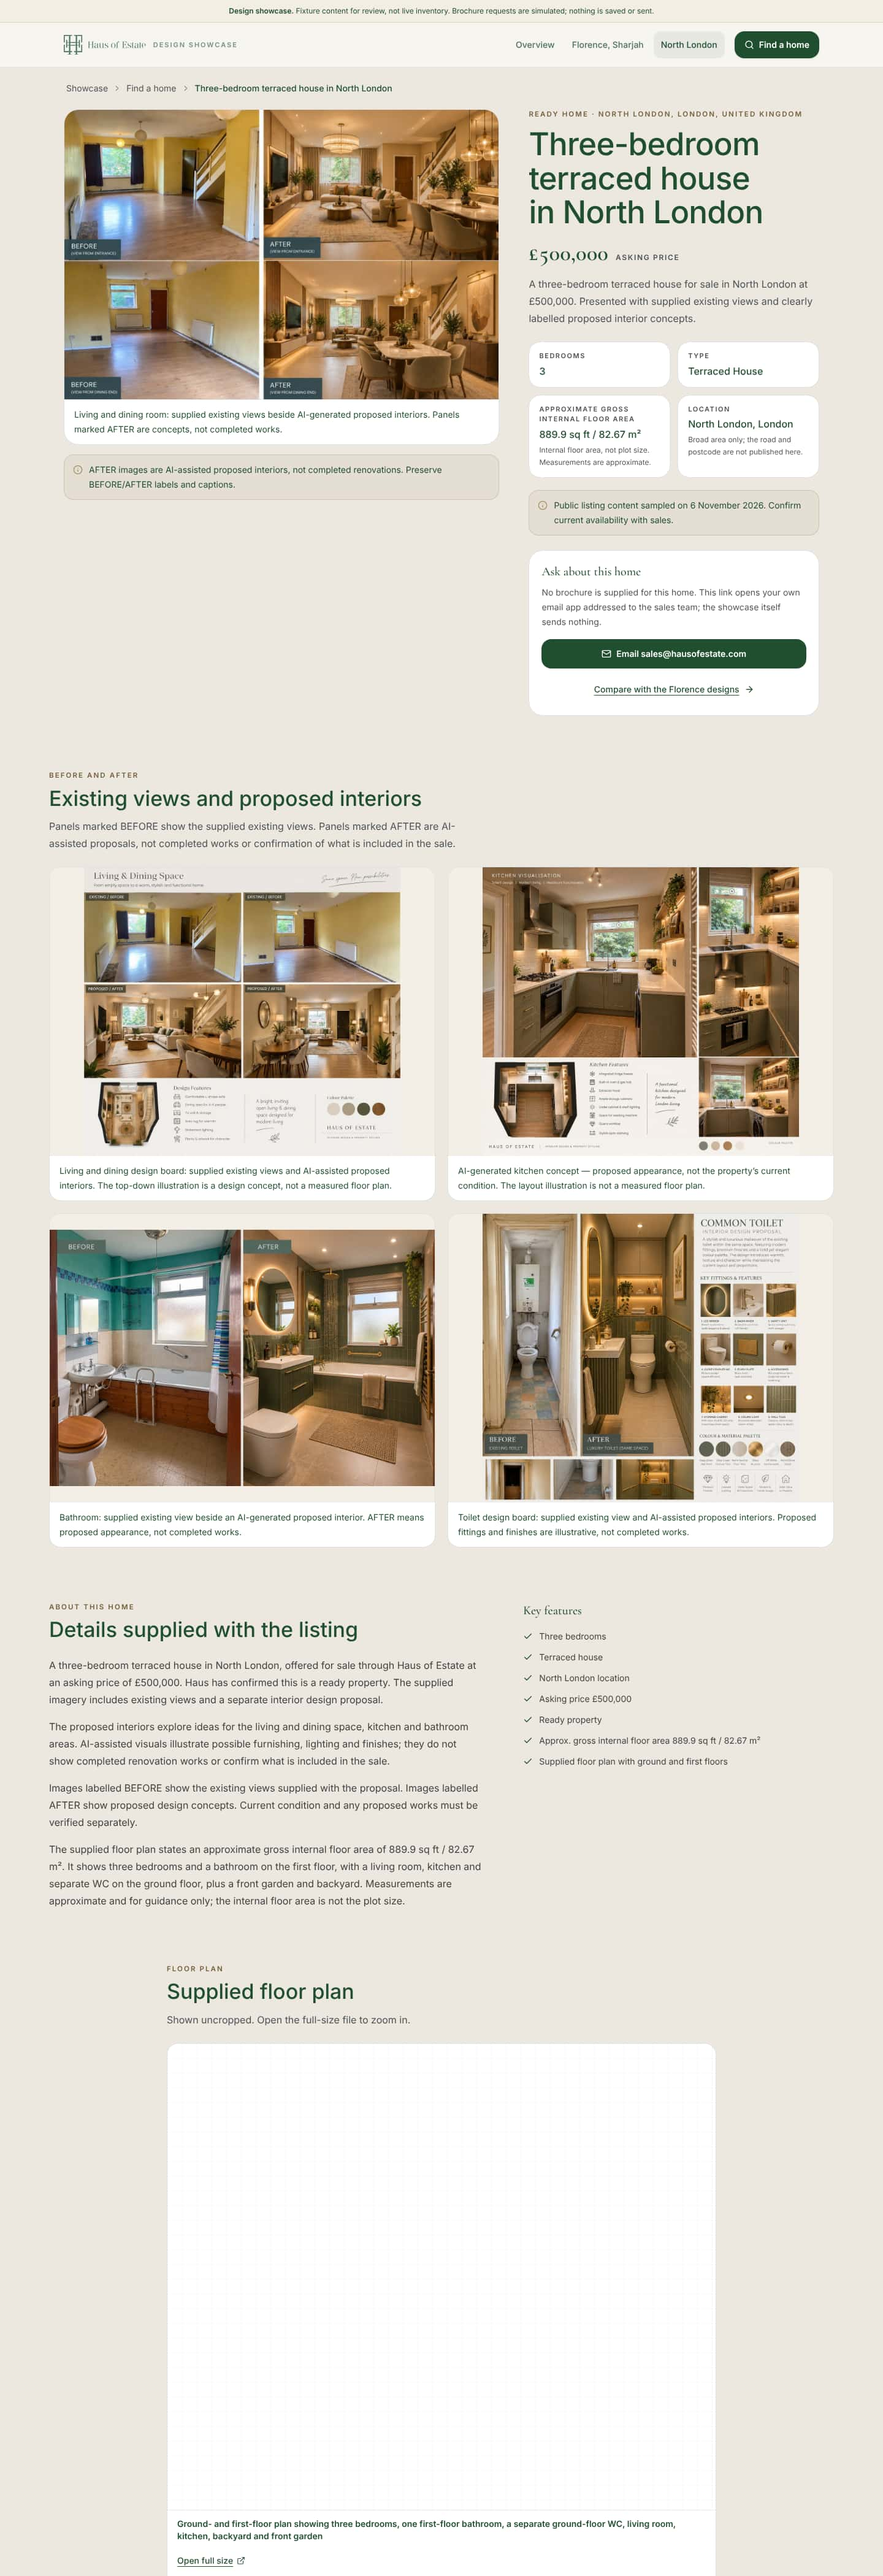
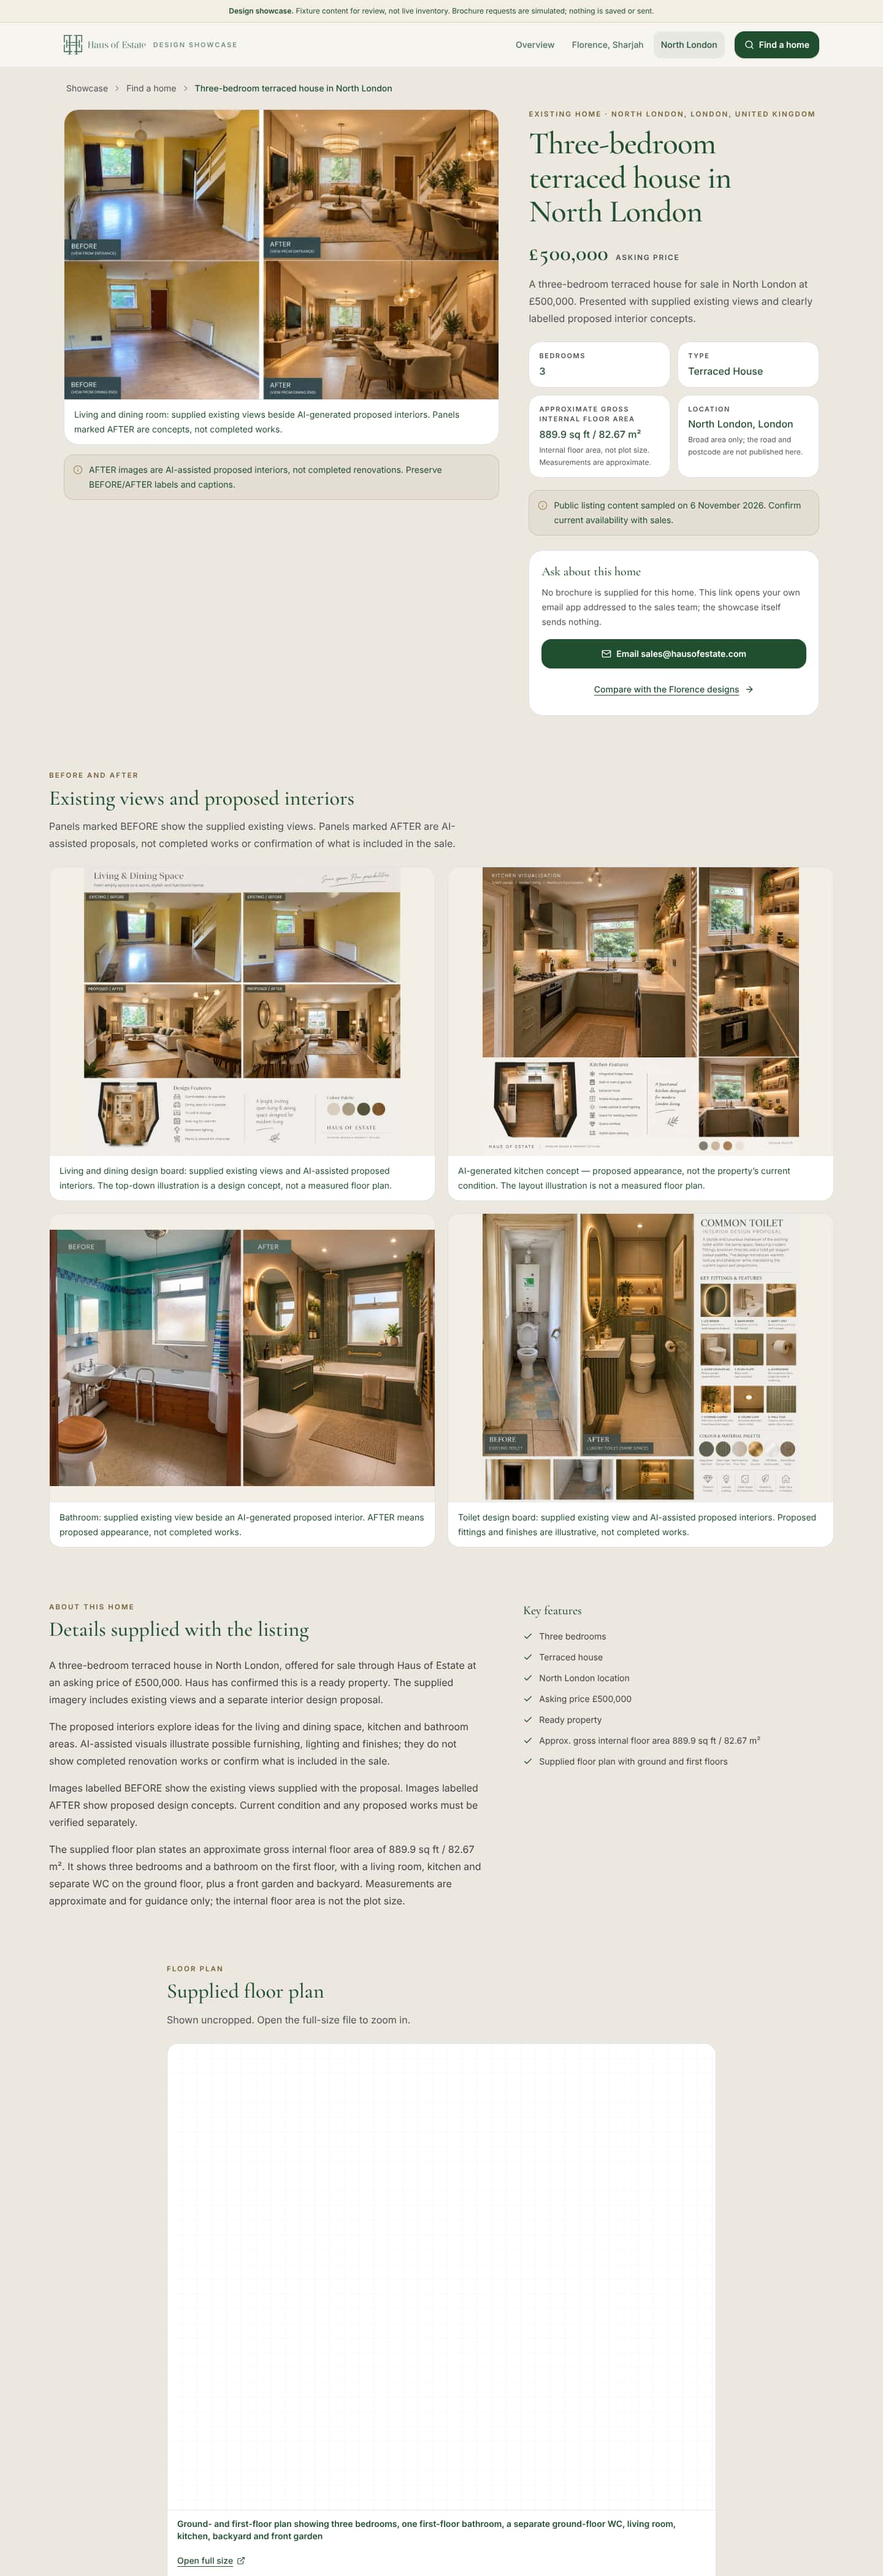
Record the passing post-fix audit and refresh showcase evidence
Replace the pending audit row with the result of the rerun against the
rebuilt default production build: no failed or overflow steps at 390px and
1440px, and the no-JavaScript check confirms the request form stays inert.
Refresh the committed report and screenshots from that run.

Claude-Session: https://claude.ai/code/session_019qTwxPcnJMw19BoZjYUknV

Changed region(s): [[0.5938, 0.0312, 0.875, 0.0936], [0.0625, 0.6238, 0.375, 0.655], [0.1875, 0.7486, 0.3438, 0.7798]]

diff --git a/docs/claude-cloud/CONTINUATION.md b/docs/claude-cloud/CONTINUATION.md
@@ -82,8 +82,11 @@ when the repository's Playwright version has no downloaded browser.
 
 ## Preview
 
-- Cloud session ports: `3500` serves the default production build with the flag
-  on; `3400` serves the dev server. Both stop when the container is reclaimed.
+- Cloud session ports: `3500` serves the default production build of checkpoint
+  3 with the flag on; `3400` serves the dev server. Both stop when the container
+  is reclaimed. When restarting `next start` on a reused port, stop the
+  `next-server` child process too; killing only the parent left the old build
+  listening once in this session.
 - Local run:
 
   ```bash
@@ -167,8 +170,8 @@ Checks for this checkpoint:
 | `npx eslint src/lib/showcase src/components/showcase src/app/showcase scripts/showcase-journey-audit.mjs next.config.ts` | Passed, 0 problems |
 | `npx vitest run src/lib/showcase src/components/showcase` | 5 files, 20 tests passed (3 new pre-hydration tests) |
 | `HAUS_NEXT_DIST_DIR=.next-showcase-tp2 npx next build` (default Turbopack) | Passed: compiled in 30.4 s |
-| Browser audit against that build, including the new no-JS step | **Pending** at the time of this commit. An earlier run of the new audit accidentally hit the previous build still bound to port 3500 and reported the old form leaking fields, which is the behaviour this checkpoint removes; the rerun against the rebuilt server was still in progress when the source fixes were pushed |
-| Screenshots in `docs/claude-cloud/screenshots/` | Still from the previous checkpoint (f14f20bf); not regenerated for these fixes |
+| Browser audit against that build, including the new no-JS step | **Passed** after the source fixes were pushed: 0 failed steps, 0 overflow steps at 390 px and 1440 px. With JavaScript disabled the submit button is disabled, pressing Enter and force-clicking submit leave the URL unchanged, no contact details appear in it and the form has 0 named fields. (The audit's text probe did not detect the `<noscript>` notice; the server-markup unit test covers it.) The first attempt of this run hit an orphaned `next-server` child process still serving the previous build on port 3500 and reported the old leaking form; that process was stopped and the audit rerun against the rebuilt server. `docs/claude-cloud/showcase-journey-report.json` is from the passing run |
+| Screenshots in `docs/claude-cloud/screenshots/` | Regenerated from the rebuilt default production build after these fixes (serif headings, “Existing home” wording, explicit bedroom lists) |
 
 ## Open decisions and follow-ups
 
